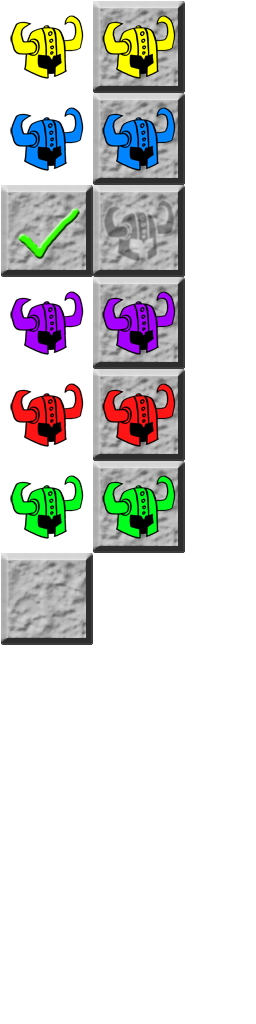
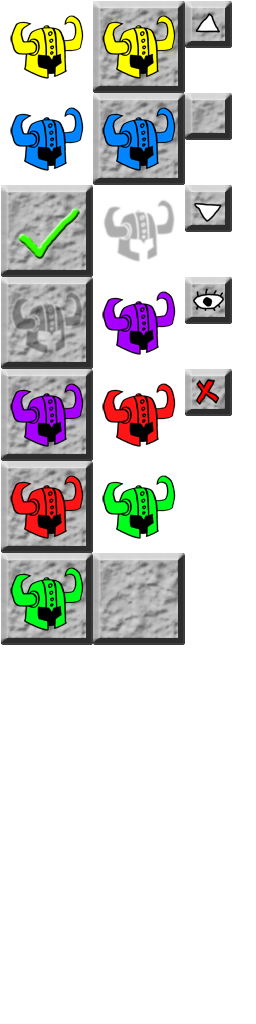
further work on editor; added validity checking.

Changed region(s): [[0.0, 0.0938, 0.9062, 0.6562], [0.7188, 0.0, 0.9062, 0.0625]]

diff --git a/jHornerhelm/core/src/com/hornerhelm/game/Editor.java b/jHornerhelm/core/src/com/hornerhelm/game/Editor.java
@@ -12,6 +12,7 @@ import com.badlogic.gdx.graphics.g2d.TextureAtlas;
 import com.badlogic.gdx.graphics.g2d.TextureRegion;
 import com.badlogic.gdx.scenes.scene2d.InputEvent;
 import com.badlogic.gdx.scenes.scene2d.Stage;
+import com.badlogic.gdx.scenes.scene2d.Touchable;
 import com.badlogic.gdx.scenes.scene2d.ui.Skin;
 import com.badlogic.gdx.scenes.scene2d.ui.TextButton;
 import com.badlogic.gdx.scenes.scene2d.ui.TextButton.TextButtonStyle;
@@ -32,12 +33,15 @@ public class Editor implements Screen{
     TextButton heilButton;
     TextButton acceptButton;
     
+    TextButton deleteButton;
+    
     TextButtonStyle kriegButtonStyle;
     TextButtonStyle schutzButtonStyle;
     TextButtonStyle machtButtonStyle;
     TextButtonStyle tricksterButtonStyle;
     TextButtonStyle heilButtonStyle;
     TextButtonStyle acceptButtonStyle;
+    TextButtonStyle neinButtonStyle;
 	
     Skin skin;
     BitmapFont font;
@@ -45,15 +49,13 @@ public class Editor implements Screen{
 	Texture testTexture;
     TextureAtlas buttonAtlas;
     
-    private TextureRegion kriegRegion, schutzRegion, machtRegion, tricksterRegion, heilRegion;
+    private TextureRegion kriegRegion, schutzRegion, machtRegion, tricksterRegion, heilRegion, neinRegion;
     
     Integer[] temparray;
     boolean ausstehend;
     
 	public Editor(final Hornerhelm gam) {
 		this.game = gam;
-
-		System.out.println(Arrays.asList(game.party.get(0)));
 		
 		System.out.println("ok:"+game.test);
 		
@@ -66,7 +68,7 @@ public class Editor implements Screen{
         font = new BitmapFont();
         
         skin = new Skin();
-        buttonAtlas = new TextureAtlas(Gdx.files.internal("icons"));
+        buttonAtlas = new TextureAtlas(Gdx.files.internal("icons.pack"));
         skin.addRegions(buttonAtlas);
         
         kriegRegion = new TextureRegion();
@@ -82,7 +84,16 @@ public class Editor implements Screen{
         tricksterRegion = buttonAtlas.findRegion("trickster-select");
         
         heilRegion = new TextureRegion();
-        heilRegion = buttonAtlas.findRegion("heil-select");                
+        heilRegion = buttonAtlas.findRegion("heil-select");
+        
+        neinRegion = new TextureRegion();
+        neinRegion = buttonAtlas.findRegion("nein-select");  
+        
+        neinButtonStyle = new TextButtonStyle();
+        neinButtonStyle.font = font;
+        neinButtonStyle.up = skin.getDrawable("nein-button");
+        
+        
         
         kriegButtonStyle = new TextButtonStyle();
         kriegButtonStyle.font = font;
@@ -179,10 +190,12 @@ public class Editor implements Screen{
 		
         Gdx.input.setInputProcessor(stage);
 		
+        updateEditor();
+        
 	}
 	
 	private void add(Integer entry) {
-
+		
 		System.out.println("lenge: "+game.party.size());
 		
 		ausstehend = true;
@@ -210,17 +223,51 @@ public class Editor implements Screen{
 			}
 			
 			System.out.println(" i:" + i + " lenge: "+ game.party.size());
-			
-			if (game.party.size() != 5 && ausstehend && i+1 == game.party.size())
-			{
-				System.out.println("add einherjar");
-				game.party.add(new Integer[]{entry,0,0,0,0});
-				ausstehend = false;
-			}
+		}
+		
+		if (game.party.size() != 5 && ausstehend)
+		{
+			System.out.println("add einherjar");
+			game.party.add(new Integer[]{entry,0,0,0,0});
+			ausstehend = false;
 		}
 		
 		System.out.println("--------------------------------------------------------------");
 		
+		updateEditor();
+		
+	}
+	
+	private void updateEditor(){
+		
+		for (int i = 0 ; i != game.party.size(); i++){
+			
+			if(Arrays.asList(game.party.get(i)).contains(0)){
+				System.out.println("0 enthalten");
+				acceptButton.setTouchable(Touchable.disabled);
+				acceptButton.setStyle(neinButtonStyle);
+			}
+			else{
+				System.out.println("0 NICHT enthalten "+i);
+				acceptButton.setTouchable(Touchable.enabled);
+				acceptButton.setStyle(acceptButtonStyle);
+				if (i+1 == 5){
+					System.out.println("fertig und voll");
+					kriegButton.setTouchable(Touchable.disabled);
+					schutzButton.setTouchable(Touchable.disabled);
+					machtButton.setTouchable(Touchable.disabled);
+					tricksterButton.setTouchable(Touchable.disabled);
+					heilButton.setTouchable(Touchable.disabled);
+					
+					kriegButton.setStyle(neinButtonStyle);
+					schutzButton.setStyle(neinButtonStyle);
+					machtButton.setStyle(neinButtonStyle);
+					tricksterButton.setStyle(neinButtonStyle);
+					heilButton.setStyle(neinButtonStyle);
+				}
+			}
+			
+		}
 	}
 
 	@Override
@@ -242,6 +289,7 @@ public class Editor implements Screen{
 		game.batch.draw(background, 0, 0);
 		
 		for (int i = 0 ; i != game.party.size(); i++){
+			
 			for (int y = 0; y != game.party.get(i).length; y++){
 				int aspect = game.party.get(i)[y];
 				if (aspect == 1)
@@ -259,6 +307,9 @@ public class Editor implements Screen{
 				}
 				else if (aspect == 5){
 					game.batch.draw(heilRegion, y*90,450-(90*i));
+				}
+				else if (aspect == 0){
+					game.batch.draw(neinRegion, y*90,450-(90*i));
 				}
 			}
 		}

diff --git a/jHornerhelm/core/src/com/hornerhelm/game/Title.java b/jHornerhelm/core/src/com/hornerhelm/game/Title.java
@@ -43,7 +43,7 @@ public class Title implements Screen {
         Gdx.input.setInputProcessor(stage);
         font = new BitmapFont();
         skin = new Skin();
-        buttonAtlas = new TextureAtlas(Gdx.files.internal("icons"));
+        buttonAtlas = new TextureAtlas(Gdx.files.internal("icons.pack"));
         skin.addRegions(buttonAtlas);
         
         editorButtonStyle = new TextButtonStyle();

diff --git a/jHornerhelm/core/src/com/hornerhelm/game/Hornerhelm.java b/jHornerhelm/core/src/com/hornerhelm/game/Hornerhelm.java
@@ -19,7 +19,7 @@ public class Hornerhelm extends Game {
 	public void create () {
 		
 		
-		this.party.add(new Integer[]{0,0,0,0,0});
+		//this.party.add(new Integer[]{0,0,0,0,0});
 		
 		batch = new SpriteBatch();
 		font = new BitmapFont();
